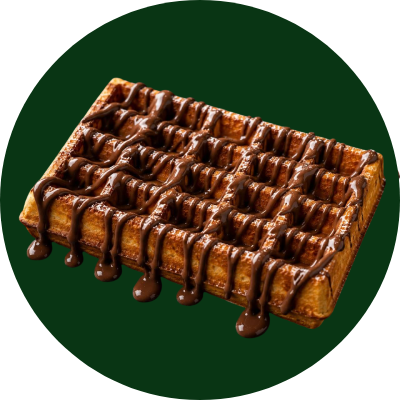
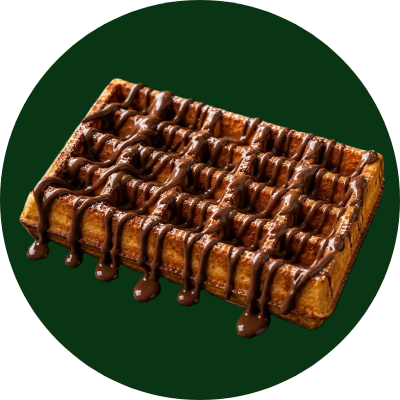
added plenty of images

diff --git a/test.js b/test.js
@@ -98,54 +98,56 @@ const foods ={
             },
         }
     },
-    12:{//creps
+    12:{//crepes
         cat_name:"crepes",
         cat_img:"png's/placeholder-cropped.svg",
         items:  {
             11:{
-                name:"crepes simple",
-                ing:"cpeps ing",
+                name:"crepe simple",
+                ing:"",
                 price:350,
             
             },
             12:{
-                name:"crepes banana",
-                ing:"crepes ing",
+                name:"crepe a la banane",
+                ing:"",
                 price:450,
             },
             13:{
-                name:"crepes ananas",
-                ing:"crepes ing",
+                name:"crepe a la fraise",
+                ing:"",
                 price:550,
             },
             14:{
-                name:"crepes 2 fruts",
-                
-                ing:"crepes ing",
+                name:"crepe a l'ananas",
+                ing:"",
                 price:550,
             },
             15:{
-                name:"crepes pistachio",
-                
-                ing:"crepes ing",
-                price:600,
+                name:"crepe aux deux fruits",
+                ing:"",
+                price:550,
             },
             16:{
-                name:"crepes lotus",
-                
-                ing:"crepes ing",
+                name:"crepe a la pistache",
+                ing:"",
                 price:600,
             },
             17:{
-                name:"crepes 4choco",
-                
-                ing:"crepes ing",
-                price:800,
+                name:"crepe au lotus",
+                ing:"",
+                price:600,
             },
             18:{
-                name:"goufres",
-                img:""
+                name:"crepe aux quatre chocolats",
+                ing:"",
+                price:800,
             },
+            19:{
+                name:"crepe le circuit",
+                ing:"",
+                price:900,
+            }
 
         }
     },
@@ -159,34 +161,34 @@ const foods ={
                 ing:""
             },
             12:{
-                name:"gaufre banane",
+                name:"gaufre a la banane",
                 price:"550",
                 ing:""
             },
             13:{
-                name:"gaufre fraise",
+                name:"gaufre a la fraise",
                 price:"550",
                 ing:""
             },
             14:{
-                name:"gaufre pistache",
+                name:"gaufre a la pistache",
                 price:"700",
                 ing:""
             },
             15:{
-                name:"gaufre lotus",
+                name:"gaufre au lotus",
                 price:"700",
                 ing:""
             },
             16:{
-                name:"gaufre special",
+                name:"gaufre speciale",
                 price:"900",
                 ing:""
             }
         }
     },
-    14:{//bubble waffles
-        cat_name:"bubble waffles",
+    14:{//gaufres bubble
+        cat_name:"gaufres bubble",
         cat_img:"png's/placeholder-cropped.svg",
         items:{
             11:{
@@ -195,22 +197,22 @@ const foods ={
                 ing:""
             },
             12:{
-                name:"banane",
+                name:"a la banane",
                 price:"550",
                 ing:""
             },
             13:{
-                name:"fraise",
+                name:"a la fraise",
                 price:"550",
                 ing:""
             },
             14:{
-                name:"pistache",
+                name:"a la pistache",
                 price:"700",
                 ing:""
             },
             15:{
-                name:"lotus",
+                name:"au lotus",
                 price:"700",
                 ing:""
             },
@@ -221,8 +223,8 @@ const foods ={
             }
         }
     },
-    15:{//sweets
-        cat_name:"sweets",
+    15:{//desserts
+        cat_name:"desserts",
         cat_img:"png's/placeholder-cropped.svg",
         items:{
             11:{
@@ -251,7 +253,7 @@ const foods ={
                 ing:""
             },
             16:{
-                name:"cancake",
+                name:"pancakes",
                 price:"450",
                 ing:""
             },
@@ -261,7 +263,7 @@ const foods ={
                 ing:""
             },
             18:{
-                name:"sneakers",
+                name:"snickers",
                 price:"400",
                 ing:""
             }